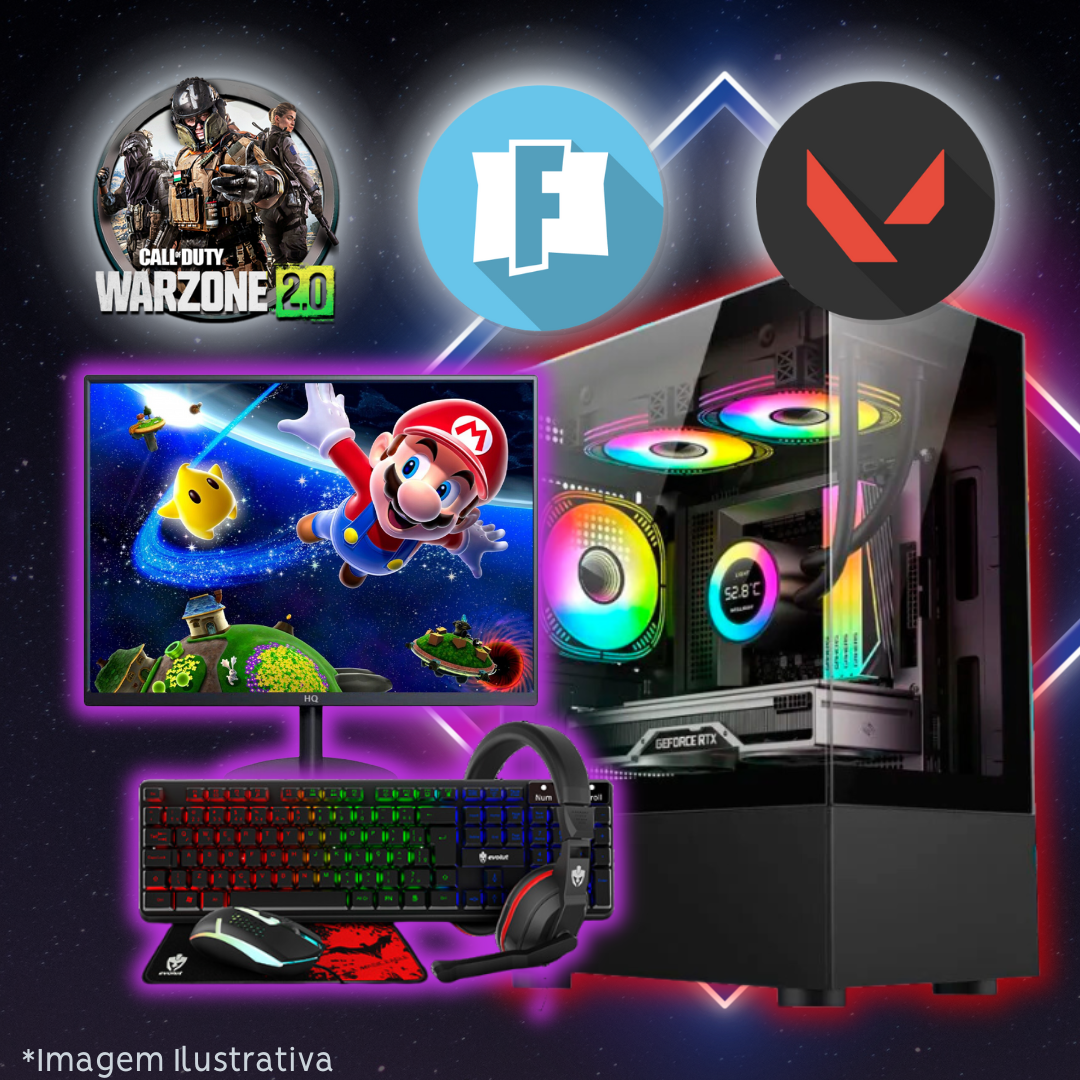
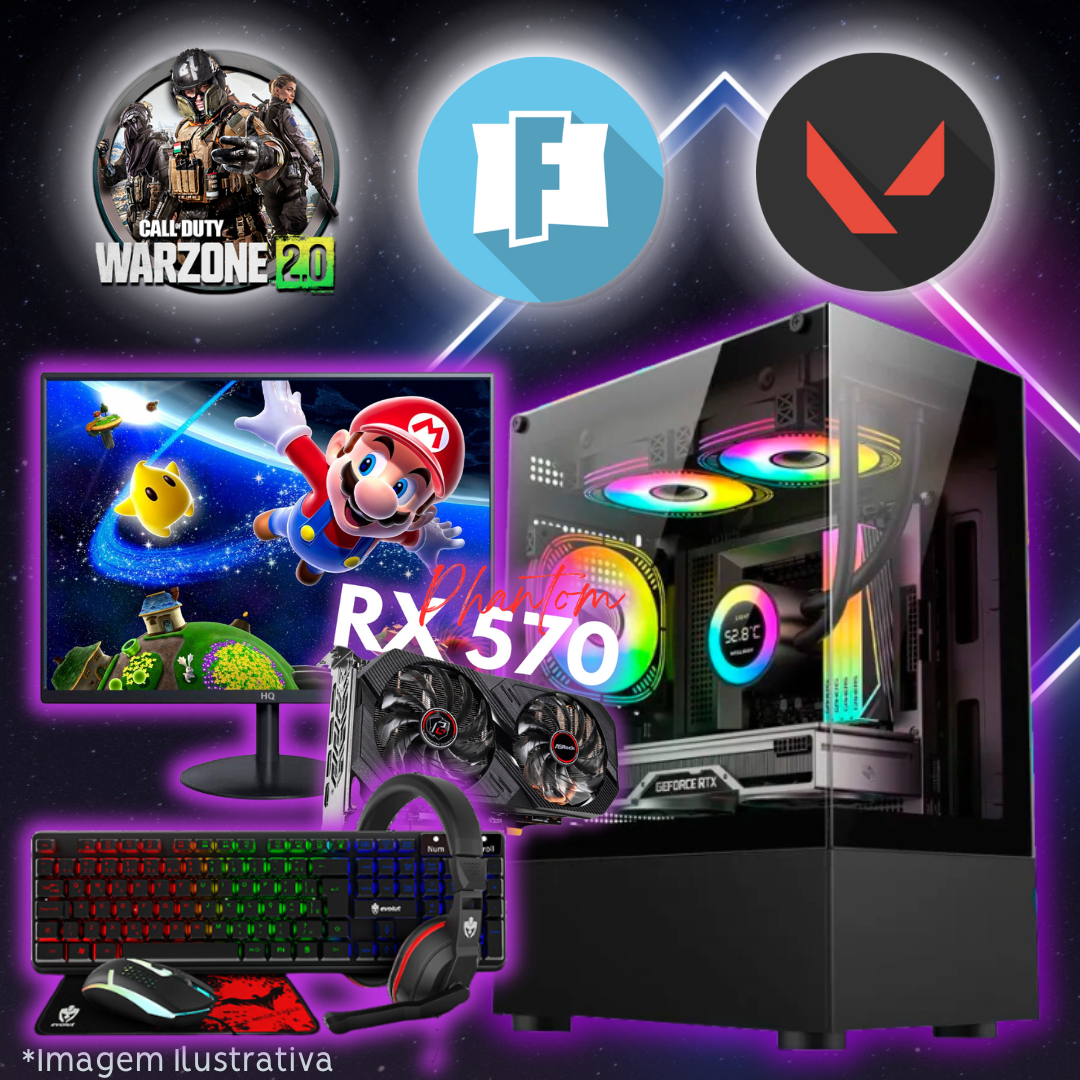
Setup Nº8 UPDATED

diff --git a/src/routes/setup/+page.svelte b/src/routes/setup/+page.svelte
@@ -55,7 +55,7 @@
     {
       title: "Nº8 - (PC0004) 🖱SETUP GAMER RYZEN 5 4500",
       image: "PC0004.png",
-      text: "*Setup ideal para Jogos como:* \n 💥 LEAGUE OF LEGENDS\n🌎 MINECRAFT\n🟥 ROBLOX\n🔫 VALORANT\n🔫 CSGO 2\n🔫 WARZONE\n🦙 FORTNITE\n\n*Placa Mãe:* A520\n*Processador:* RYZEN 5 4500\n*Memória RAM:* 2x8GB(16GB) DDR4\n*Placa de Vídeo:*  RX 580 8GB\n*Armazenamento:* SSD 480GB\n*Gabinete:* GAMER C/ 3FANS RGB\n*Fonte:* 500W\n+ 🖥 Monitor de 19' Pol.\n+ Kit Gamer(Teclado, Mouse, Mousepad e Headset)\n\nPOR APENAS *R$ 4.510,00* em até 10x sem juros!\n\n*FFormas de Pagamento:*\n💳 Cartão - Débito à vista ou Crédito em até 10x *SEM JUROS*\n❖ Pix á Vista\n❌ NÃO aceitamos pagamento via boleto bancário\n🔥 Não perca essa chance de melhorar seu setup e jogar com qualidade! 🔥\n\n"
+      text: "*Setup ideal para Jogos como:* \n 💥 LEAGUE OF LEGENDS\n🌎 MINECRAFT\n🟥 ROBLOX\n🔫 VALORANT\n🔫 CSGO 2\n🔫 WARZONE\n🦙 FORTNITE\n\n*Placa Mãe:* A520\n*Processador:* RYZEN 5 4500\n*Memória RAM:* 2x8GB(16GB) DDR4\n*Placa de Vídeo:*  RX 570 8GB\n*Armazenamento:* SSD 480GB\n*Gabinete:* GAMER C/ 3FANS RGB\n*Fonte:* 500W\n+ 🖥 Monitor de 19' Pol.\n+ Kit Gamer(Teclado, Mouse, Mousepad e Headset)\n\nPOR APENAS *R$ 4.510,00* em até 10x sem juros!\n\n*FFormas de Pagamento:*\n💳 Cartão - Débito à vista ou Crédito em até 10x *SEM JUROS*\n❖ Pix á Vista\n❌ NÃO aceitamos pagamento via boleto bancário\n🔥 Não perca essa chance de melhorar seu setup e jogar com qualidade! 🔥\n\n"
     },
 
     // R$ 5.440,00 Restore
